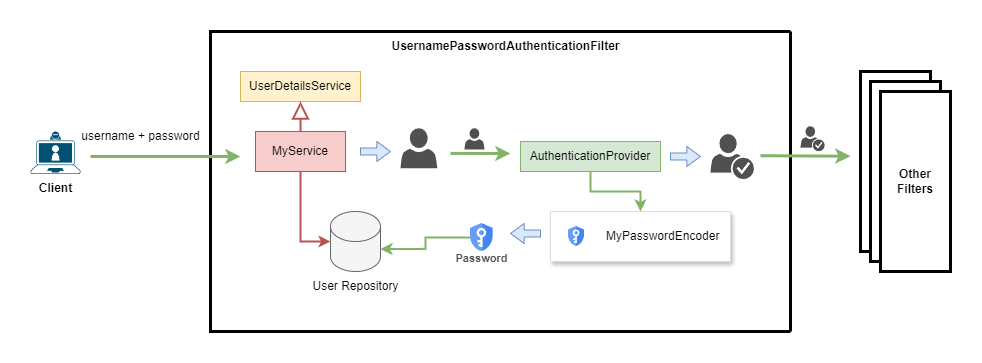
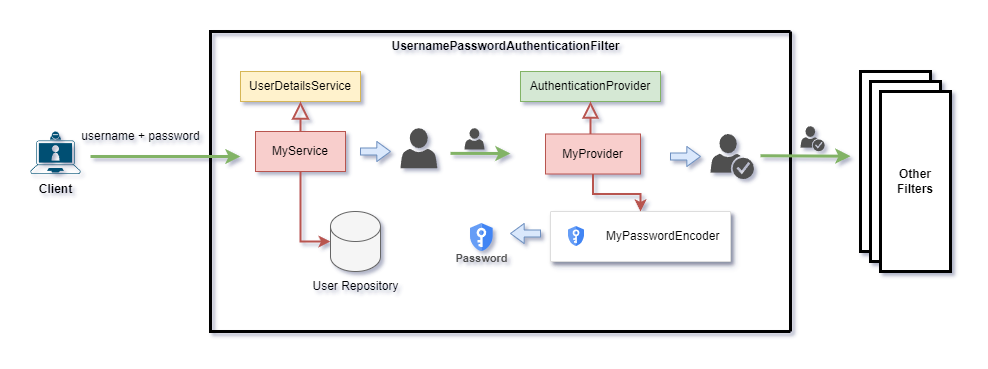
Config basic authentication for application

Changed region(s): [[0.0305, 0.0606, 0.9776, 0.9394], [0.3055, 0.5758, 0.4277, 0.8182]]

diff --git a/back-end/BackEnd-BookStore/src/main/java/nlu/com/app/configuration/SecurityConfiguration.java b/back-end/BackEnd-BookStore/src/main/java/nlu/com/app/configuration/SecurityConfiguration.java
@@ -1,22 +1,43 @@
 package nlu.com.app.configuration;
 
+import lombok.RequiredArgsConstructor;
+import nlu.com.app.security.CustomAuthenticationProvider;
 import org.springframework.context.annotation.Bean;
 import org.springframework.context.annotation.Configuration;
+import org.springframework.security.authentication.AuthenticationManager;
+import org.springframework.security.authentication.ProviderManager;
 import org.springframework.security.config.Customizer;
 import org.springframework.security.config.annotation.web.builders.HttpSecurity;
 import org.springframework.security.config.annotation.web.configuration.EnableWebSecurity;
 import org.springframework.security.config.http.SessionCreationPolicy;
+import org.springframework.security.crypto.bcrypt.BCryptPasswordEncoder;
+import org.springframework.security.crypto.password.PasswordEncoder;
 import org.springframework.security.web.SecurityFilterChain;
+
+import java.util.List;
 
 @Configuration
 @EnableWebSecurity
+@RequiredArgsConstructor
 public class SecurityConfiguration {
+    private final CustomAuthenticationProvider customAuthenticationProvider;
+
+    @Bean
+    public AuthenticationManager authenticationManager() {
+        return new ProviderManager(List.of(customAuthenticationProvider));
+    }
+
     @Bean
     public SecurityFilterChain configure(HttpSecurity http) throws Exception {
         return http.csrf(customizer -> customizer.disable())
             .authorizeHttpRequests(request -> request.anyRequest().authenticated())
-            .httpBasic(Customizer.withDefaults())
-            .sessionManagement(session -> session.sessionCreationPolicy(SessionCreationPolicy.STATELESS))
+                .formLogin(form -> form.loginPage("/login"))
+                .sessionManagement(session -> session.sessionCreationPolicy(SessionCreationPolicy.STATELESS))
                 .build();
+    }
+
+    @Bean
+    public PasswordEncoder passwordEncoder() {
+        return new BCryptPasswordEncoder(16);
     }
 }

diff --git a/back-end/BackEnd-BookStore/src/main/java/nlu/com/app/security/CustomAuthenticationProvider.java b/back-end/BackEnd-BookStore/src/main/java/nlu/com/app/security/CustomAuthenticationProvider.java
@@ -1,0 +1,37 @@
+package nlu.com.app.security;
+
+import lombok.RequiredArgsConstructor;
+import org.springframework.security.authentication.AuthenticationProvider;
+import org.springframework.security.authentication.BadCredentialsException;
+import org.springframework.security.authentication.UsernamePasswordAuthenticationToken;
+import org.springframework.security.core.Authentication;
+import org.springframework.security.core.AuthenticationException;
+import org.springframework.security.core.userdetails.UserDetails;
+import org.springframework.security.crypto.password.PasswordEncoder;
+import org.springframework.stereotype.Component;
+
+@Component
+@RequiredArgsConstructor
+public class CustomAuthenticationProvider implements AuthenticationProvider {
+    private final CustomUserDetailsService service;
+    private final PasswordEncoder encoder;
+
+    @Override
+    public Authentication authenticate(Authentication authentication) throws AuthenticationException {
+        String username = authentication.getName();
+        String password = authentication.getCredentials().toString();
+
+        UserDetails userDetails = service.loadUserByUsername(username);
+
+        if (!encoder.matches(password, userDetails.getPassword())) {
+            throw new BadCredentialsException("Invalid password");
+        }
+
+        return new UsernamePasswordAuthenticationToken(userDetails, password, userDetails.getAuthorities());
+    }
+
+    @Override
+    public boolean supports(Class<?> authentication) {
+        return authentication.equals(UsernamePasswordAuthenticationToken.class);
+    }
+}

diff --git a/back-end/BackEnd-BookStore/src/main/java/nlu/com/app/security/UserPrincipal.java b/back-end/BackEnd-BookStore/src/main/java/nlu/com/app/security/UserPrincipal.java
@@ -1,0 +1,52 @@
+package nlu.com.app.security;
+
+import nlu.com.app.entity.User;
+import org.springframework.security.core.GrantedAuthority;
+import org.springframework.security.core.authority.SimpleGrantedAuthority;
+import org.springframework.security.core.userdetails.UserDetails;
+
+import java.util.Collection;
+import java.util.List;
+
+public class UserPrincipal implements UserDetails {
+    private final User user;
+
+    public UserPrincipal(User user) {
+        this.user = user;
+    }
+
+    @Override
+    public Collection<? extends GrantedAuthority> getAuthorities() {
+        return List.of(new SimpleGrantedAuthority(user.getRole().name()));
+    }
+
+    @Override
+    public String getPassword() {
+        return user.getPassword();
+    }
+
+    @Override
+    public String getUsername() {
+        return user.getUsername();
+    }
+
+    @Override
+    public boolean isAccountNonExpired() {
+        return true;
+    }
+
+    @Override
+    public boolean isAccountNonLocked() {
+        return true;
+    }
+
+    @Override
+    public boolean isCredentialsNonExpired() {
+        return true;
+    }
+
+    @Override
+    public boolean isEnabled() {
+        return true;
+    }
+}

diff --git a/back-end/BackEnd-BookStore/src/main/java/nlu/com/app/security/CustomUserDetailsService.java b/back-end/BackEnd-BookStore/src/main/java/nlu/com/app/security/CustomUserDetailsService.java
@@ -1,0 +1,21 @@
+package nlu.com.app.security;
+
+import lombok.RequiredArgsConstructor;
+import nlu.com.app.entity.User;
+import nlu.com.app.repository.UserRepository;
+import org.springframework.security.core.userdetails.UserDetails;
+import org.springframework.security.core.userdetails.UserDetailsService;
+import org.springframework.security.core.userdetails.UsernameNotFoundException;
+import org.springframework.stereotype.Service;
+
+@RequiredArgsConstructor
+@Service
+public class CustomUserDetailsService implements UserDetailsService {
+    private final UserRepository userRepository;
+    @Override
+    public UserDetails loadUserByUsername(String username) throws UsernameNotFoundException {
+        User user = userRepository.findByUsername(username)
+                .orElseThrow(() -> new UsernameNotFoundException(username));
+        return new UserPrincipal(user);
+    }
+}

diff --git a/back-end/BackEnd-BookStore/src/main/java/nlu/com/app/entity/User.java b/back-end/BackEnd-BookStore/src/main/java/nlu/com/app/entity/User.java
@@ -1,0 +1,25 @@
+package nlu.com.app.entity;
+
+import jakarta.persistence.Entity;
+import jakarta.persistence.GeneratedValue;
+import jakarta.persistence.GenerationType;
+import jakarta.persistence.Id;
+import lombok.AllArgsConstructor;
+import lombok.Builder;
+import lombok.Data;
+import lombok.NoArgsConstructor;
+import nlu.com.app.constant.UserRole;
+
+@Entity
+@Data
+@Builder
+@NoArgsConstructor
+@AllArgsConstructor
+public class User {
+    @Id
+    @GeneratedValue(strategy = GenerationType.IDENTITY)
+    private Long id;
+    private String username;
+    private String password;
+    private UserRole role;
+}

diff --git a/back-end/BackEnd-BookStore/src/main/java/nlu/com/app/repository/UserRepository.java b/back-end/BackEnd-BookStore/src/main/java/nlu/com/app/repository/UserRepository.java
@@ -1,0 +1,12 @@
+package nlu.com.app.repository;
+
+import nlu.com.app.entity.User;
+import org.springframework.data.jpa.repository.JpaRepository;
+import org.springframework.stereotype.Repository;
+
+import java.util.Optional;
+
+@Repository
+public interface UserRepository extends JpaRepository<User, Long> {
+    Optional<User> findByUsername(String username);
+}

diff --git a/back-end/BackEnd-BookStore/src/main/java/nlu/com/app/constant/UserRole.java b/back-end/BackEnd-BookStore/src/main/java/nlu/com/app/constant/UserRole.java
@@ -1,0 +1,12 @@
+package nlu.com.app.constant;
+
+public enum UserRole {
+    ADMIN("Người quản trị"), MANAGER("Người quản lý"), CUSTOMER("Khách hàng");
+    private String description;
+    UserRole(String description) {
+        this.description = description;
+    }
+    public String getDescription() {
+        return description;
+    }
+}

diff --git a/back-end/BackEnd-BookStore/note/spring-security.md b/back-end/BackEnd-BookStore/note/spring-security.md
@@ -54,7 +54,177 @@ Như vậy, để implement được một logic xác thực bằng tài khoản
 
 ![img](../images/spring-security-3.png)
 
+- Thông tin client gửi đến được lưu và truyền đi dưới dạng đối tượng **Authentication**.
 - Tạo một lớp để hiện thực lại **UserDetailsService**, tại lớp này chúng ta viết logic truy vấn thông tin user trên repository dựa vào username.
-- Sau khi truy vấn xong, tạo ra đối tượng cần thiết để giữ các thông tin sẽ dùng để xác thực.
-- Tại **AuthenticationProvider**, có thể thiết lập một PasswordEncoder phù hợp với nhu cầu để thực hiện mã hóa mật khẩu.
+- Tạo lớp hiện thực lại **AuthenticationProvider**, có thể thiết lập một PasswordEncoder phù hợp với nhu cầu để thực hiện mã hóa mật khẩu.
 - Sử dụng mật khẩu đã được mã hóa để so sánh với mật khẩu trên database để xác thực quá trình đăng nhập.
+
+Ngoài ra, cần tạo thêm một lớp để chứa thông tin xác thực của người dùng sau khi thực hiện truy vấn, lớp này cần implement lại interface **UserDetails**.
+
+```java
+package nlu.com.app.entity;
+
+import org.springframework.security.core.GrantedAuthority;
+import org.springframework.security.core.authority.SimpleGrantedAuthority;
+import org.springframework.security.core.userdetails.UserDetails;
+
+import java.util.Collection;
+import java.util.List;
+
+public class UserPrincipal implements UserDetails {
+    private final User user;
+
+    public UserPrincipal(User user) {
+        this.user = user;
+    }
+
+    @Override
+    public Collection<? extends GrantedAuthority> getAuthorities() {
+        return List.of(new SimpleGrantedAuthority(user.getRole().name()));
+    }
+
+    @Override
+    public String getPassword() {
+        return user.getPassword();
+    }
+
+    @Override
+    public String getUsername() {
+        return user.getUsername();
+    }
+
+    @Override
+    public boolean isAccountNonExpired() {
+        return true;
+    }
+
+    @Override
+    public boolean isAccountNonLocked() {
+        return true;
+    }
+
+    @Override
+    public boolean isCredentialsNonExpired() {
+        return true;
+    }
+
+    @Override
+    public boolean isEnabled() {
+        return true;
+    }
+}
+```
+
+Tiếp theo, cần tạo một lớp implement lại UserDetailsService, lớp này sẽ truy vấn thông tin đăng nhập được lưu trên database sau đó trả về đối tượng xác thực chứa thông tin đó.
+
+```java
+package nlu.com.app.security;
+
+import lombok.RequiredArgsConstructor;
+import nlu.com.app.entity.User;
+import nlu.com.app.repository.UserRepository;
+import org.springframework.security.core.userdetails.UserDetails;
+import org.springframework.security.core.userdetails.UserDetailsService;
+import org.springframework.security.core.userdetails.UsernameNotFoundException;
+
+@RequiredArgsConstructor
+public class CustomUserDetailsService implements UserDetailsService {
+    private final UserRepository userRepository;
+    @Override
+    public UserDetails loadUserByUsername(String username) throws UsernameNotFoundException {
+        User user = userRepository.findByUsername(username)
+                .orElseThrow(() -> new UsernameNotFoundException(username));
+        return new UserPrincipal(user);
+    }
+}
+```
+
+Sau đó, tạo lớp hiện thực lại **AuthenticationProvider** để định nghĩa quá trình xác thực thông tin đăng nhập.
+
+```java
+package nlu.com.app.security;
+
+import lombok.RequiredArgsConstructor;
+import org.springframework.security.authentication.AuthenticationProvider;
+import org.springframework.security.authentication.BadCredentialsException;
+import org.springframework.security.authentication.UsernamePasswordAuthenticationToken;
+import org.springframework.security.core.Authentication;
+import org.springframework.security.core.AuthenticationException;
+import org.springframework.security.core.userdetails.UserDetails;
+import org.springframework.security.crypto.password.PasswordEncoder;
+import org.springframework.stereotype.Component;
+
+@Component
+@RequiredArgsConstructor
+public class CustomAuthenticationProvider implements AuthenticationProvider {
+    private final CustomUserDetailsService service;
+    private final PasswordEncoder encoder;
+
+    @Override
+    public Authentication authenticate(Authentication authentication) throws AuthenticationException {
+        String username = authentication.getName();
+        String password = authentication.getCredentials().toString();
+
+        UserDetails userDetails = service.loadUserByUsername(username);
+
+        if (!encoder.matches(password, userDetails.getPassword())) {
+            throw new BadCredentialsException("Invalid password");
+        }
+
+        return new UsernamePasswordAuthenticationToken(userDetails, password, userDetails.getAuthorities());
+    }
+
+    @Override
+    public boolean supports(Class<?> authentication) {
+        return authentication.equals(UsernamePasswordAuthenticationToken.class);
+    }
+}
+```
+
+Cuối cùng, ta đăng ký **AuthenticationProvider** vừa tạo với **AuthenticationManager**
+
+```java
+package nlu.com.app.configuration;
+
+import lombok.RequiredArgsConstructor;
+import nlu.com.app.security.CustomAuthenticationProvider;
+import org.springframework.context.annotation.Bean;
+import org.springframework.context.annotation.Configuration;
+import org.springframework.security.authentication.AuthenticationManager;
+import org.springframework.security.authentication.ProviderManager;
+import org.springframework.security.config.Customizer;
+import org.springframework.security.config.annotation.web.builders.HttpSecurity;
+import org.springframework.security.config.annotation.web.configuration.EnableWebSecurity;
+import org.springframework.security.config.http.SessionCreationPolicy;
+import org.springframework.security.crypto.bcrypt.BCryptPasswordEncoder;
+import org.springframework.security.crypto.password.PasswordEncoder;
+import org.springframework.security.web.SecurityFilterChain;
+
+import java.util.List;
+
+@Configuration
+@EnableWebSecurity
+@RequiredArgsConstructor
+public class SecurityConfiguration {
+    private final CustomAuthenticationProvider customAuthenticationProvider;
+
+    @Bean
+    public AuthenticationManager authenticationManager() {
+        return new ProviderManager(List.of(customAuthenticationProvider));
+    }
+
+    @Bean
+    public SecurityFilterChain configure(HttpSecurity http) throws Exception {
+        return http.csrf(customizer -> customizer.disable())
+                .authorizeHttpRequests(request -> request.anyRequest().authenticated())
+                .formLogin(form -> form.loginPage("/login"))
+                .sessionManagement(session -> session.sessionCreationPolicy(SessionCreationPolicy.STATELESS))
+                .build();
+    }
+
+    @Bean
+    public PasswordEncoder passwordEncoder() {
+        return new BCryptPasswordEncoder(16);
+    }
+}
+```
